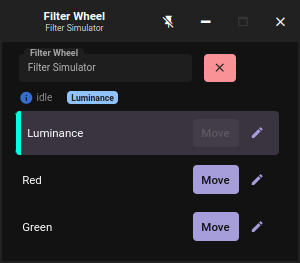
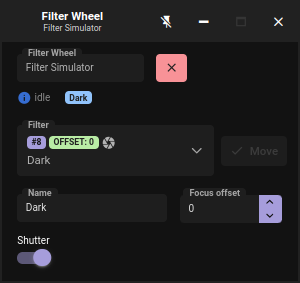
[desktop]: Improve Filter Wheel layout

diff --git a/desktop/src/app/filterwheel/filterwheel.component.html b/desktop/src/app/filterwheel/filterwheel.component.html
@@ -18,42 +18,58 @@
             <p-tag *ngIf="connected && selectedFilter" [value]="selectedFilter.name" severity="info" />
         </div>
     </div>
-    <div class="grid">
-        <p-scrollPanel [style]="{ width: '100%', height: '143px' }" class="w-full">
-            @for (item of filters; track item.position) {
-            <div class="grid m-1 mr-2 border-round filter" [class.surface-card]="item.expanded && item.position !== position"
-                 [class.current]="connected && item.position === position"
-                 style="min-height: 44px;">
-                <div class="col-12 flex flex-column align-items-center justify-content-center p-1">
-                    <div class="align-items-center flex justify-content-between ng-star-inserted p-1 w-full">
-                        <span class="align-items-center flex gap-1">
-                            {{ item.name }}
-                            <i *ngIf="item.dark" class="mdi mdi-camera-iris"></i>
-                        </span>
-                        <span class="flex align-items-center justify-content-center gap-1">
-                            <p-button [disabled]="!connected || moving || item.position === position" label="Move" (onClick)="moveTo(item)" />
-                            <p-button [disabled]="!connected || moving" [text]="true" [rounded]="true" icon="mdi mdi-pencil"
-                                      (onClick)="item.expanded = !item.expanded" />
-                        </span>
-                    </div>
-                    <div class="flex flex-row w-full py-2 px-3 align-items-center justify-content-between" *ngIf="item.expanded">
-                        <div class="flex align-items-center justify-content-center gap-1">
-                            <span class="p-float-label">
-                                <input [disabled]="!connected || moving" type="text" pInputText class="p-inputtext-sm border-0 w-full"
-                                       [(ngModel)]="item.newName" [maxLength]="32" />
-                                <label>New name</label>
+    <div class="grid mt-2">
+        <div class="col-9">
+            <span class="p-float-label">
+                <p-dropdown [disabled]="!connected || moving" [options]="filters" [(ngModel)]="filter" styleClass="border-0"
+                            emptyMessage="No filter found">
+                    <ng-template let-item pTemplate="selectedItem">
+                        <div class="flex flex-column justify-content-center gap-1">
+                            <span class="flex align-items-center text-xs gap-1" style="min-height: 15px">
+                                <p-tag *ngIf="filter" value="#{{ filter.position }}" />
+                                <p-tag *ngIf="filter" value="OFFSET: {{ filter.offset }}" severity="success" />
+                                <i *ngIf="filter?.dark" class="mdi mdi-camera-iris"></i>
                             </span>
-                            <p-button [disabled]="!connected || moving" severity="success" [text]="true" icon="mdi mdi-check" styleClass="p-button-sm"
-                                      (onClick)="applyFilterName(item, $event)" pTooltip="Apply" tooltipPosition="bottom" />
+                            <span>{{ filter?.name }}</span>
                         </div>
-                        <div class="flex flex-column align-items-center justify-content-center gap-1">
-                            <p-checkbox [disabled]="!connected || moving" [binary]="true" [ngModel]="item.dark" (onChange)="shutterToggled(item, $event)"
-                                        pTooltip="Shutter" tooltipPosition="bottom" />
+                    </ng-template>
+                    <ng-template let-item pTemplate="item">
+                        <div class="flex flex-column justify-content-center gap-1">
+                            <span class="flex align-items-center text-xs gap-1" style="min-height: 15px">
+                                <p-tag value="#{{ item.position }}" />
+                                <p-tag value="OFFSET: {{ item.offset }}" severity="success" />
+                                <i *ngIf="item.dark" class="mdi mdi-camera-iris"></i>
+                            </span>
+                            <span>{{ item.name }}</span>
                         </div>
-                    </div>
-                </div>
-            </div>
-            }
-        </p-scrollPanel>
+                    </ng-template>
+                </p-dropdown>
+                <label>Filter</label>
+            </span>
+        </div>
+        <div class="col-3 flex align-items-center justify-content-center">
+            <p-button [disabled]="!connected || moving || filter?.position === position" label="Move" icon="mdi mdi-check"
+                      (onClick)="filter && moveTo(filter)" />
+        </div>
+    </div>
+    <div class="grid mt-2" *ngIf="filter">
+        <div class="col-7">
+            <span class="p-float-label">
+                <input pInputText [disabled]="!connected || moving" [(ngModel)]="filter.name" (ngModelChange)="filterNameChanged(filter)"
+                       class="border-0 w-full p-inputtext-sm">
+                <label>Name</label>
+            </span>
+        </div>
+        <div class="col-5">
+            <span class="p-float-label">
+                <p-inputNumber [disabled]="!connected || moving" [(ngModel)]="filter.offset" [min]="-1000000" [max]="1000000" [showButtons]="true"
+                               locale="en" styleClass="border-0 w-full p-inputtext-sm" />
+                <label>Focus offset</label>
+            </span>
+        </div>
+        <div class="col-12 flex flex-column justify-content-center gap-2">
+            <span class="text-sm">Shutter</span>
+            <p-inputSwitch [disabled]="!connected || moving" [ngModel]="filter.dark" (onChange)="shutterToggled(filter, $event)" />
+        </div>
     </div>
 </div>

diff --git a/desktop/src/app/filterwheel/filterwheel.component.ts b/desktop/src/app/filterwheel/filterwheel.component.ts
@@ -1,6 +1,7 @@
 import { AfterContentInit, Component, HostListener, NgZone, OnDestroy } from '@angular/core'
 import { ActivatedRoute } from '@angular/router'
-import { CheckboxChangeEvent } from 'primeng/checkbox'
+import { InputSwitchChangeEvent } from 'primeng/inputswitch'
+import { Subject, Subscription, throttleTime } from 'rxjs'
 import { ApiService } from '../../shared/services/api.service'
 import { ElectronService } from '../../shared/services/electron.service'
 import { LocalStorageService } from '../../shared/services/local-storage.service'
@@ -11,14 +12,14 @@ import { AppComponent } from '../app.component'
 export interface WheelPreference {
     shutterPosition?: number
     names?: string[]
+    offsets?: number[]
 }
 
-export interface FilterSlot {
+export interface Filter {
     position: number
     name: string
-    expanded: boolean
-    newName: string
     dark: boolean
+    offset: number
 }
 
 @Component({
@@ -33,11 +34,15 @@ export class FilterWheelComponent implements AfterContentInit, OnDestroy {
 
     moving = false
     position = 0
-    filters: FilterSlot[] = []
+    filters: Filter[] = []
+    filter?: Filter
 
-    get selectedFilter() {
+    get selectedFilter(): Filter | undefined {
         return this.filters[this.position - 1]
     }
+
+    private readonly filterChangedPublisher = new Subject<Filter>()
+    private subscription?: Subscription
 
     constructor(
         private app: AppComponent,
@@ -58,6 +63,13 @@ export class FilterWheelComponent implements AfterContentInit, OnDestroy {
                 })
             }
         })
+
+        this.subscription = this.filterChangedPublisher
+            .pipe(throttleTime(1500))
+            .subscribe((filter) => {
+                this.savePreference()
+                this.electron.send('WHEEL_RENAMED', { wheel: this.wheel!, filter })
+            })
     }
 
     async ngAfterContentInit() {
@@ -68,7 +80,9 @@ export class FilterWheelComponent implements AfterContentInit, OnDestroy {
     }
 
     @HostListener('window:unload')
-    ngOnDestroy() { }
+    ngOnDestroy() {
+        this.subscription?.unsubscribe()
+    }
 
     async wheelChanged(wheel?: FilterWheel) {
         this.wheel = wheel
@@ -94,23 +108,23 @@ export class FilterWheelComponent implements AfterContentInit, OnDestroy {
         }
     }
 
-    shutterToggled(filter: FilterSlot, event: CheckboxChangeEvent) {
-        this.filters.forEach(e => e.dark = e === filter)
-        this.savePreference()
-        event.originalEvent?.stopImmediatePropagation()
-    }
-
-    moveTo(filter: FilterSlot) {
+    moveTo(filter: Filter) {
         this.api.wheelMoveTo(this.wheel!, filter.position)
     }
 
-    applyFilterName(filter: FilterSlot, event: Event) {
-        filter.name = filter.newName
+    shutterToggled(filter: Filter, event: InputSwitchChangeEvent) {
+        this.filters.forEach(e => e.dark = event.checked && e === filter)
+        this.filterChangedPublisher.next(filter)
+    }
 
-        this.savePreference()
-        this.electron.send('WHEEL_RENAMED', this.wheel)
+    filterNameChanged(filter: Filter) {
+        if (filter.name) {
+            this.filterChangedPublisher.next(filter)
+        }
+    }
 
-        event.stopImmediatePropagation()
+    focusOffsetChanged(filter: Filter) {
+        this.filterChangedPublisher.next(filter)
     }
 
     private async update() {
@@ -122,7 +136,7 @@ export class FilterWheelComponent implements AfterContentInit, OnDestroy {
         this.moving = this.wheel.moving
         this.position = this.wheel.position
 
-        let filters: FilterSlot[] = []
+        let filters: Filter[] = []
 
         if (this.wheel.count <= 0) {
             this.filters = []
@@ -136,14 +150,15 @@ export class FilterWheelComponent implements AfterContentInit, OnDestroy {
         const preference = this.storage.get<WheelPreference>(`wheel.${this.wheel.name}`, {})
 
         for (let position = 1; position <= filters.length; position++) {
-            const name = preference.names?.[position] ?? `Filter #${position}`
+            const name = preference.names?.[position - 1] ?? `Filter #${position}`
+            const offset = preference.offsets?.[position - 1] ?? 0
             const dark = position === preference.shutterPosition
-            const expanded = this.filters[position - 1]?.expanded ?? false
-            const filter = { position, name, expanded, newName: name, dark }
+            const filter = { position, name, dark, offset }
             filters[position - 1] = filter
         }
 
         this.filters = filters
+        this.filter = filters[this.position - 1] ?? filters[0]
     }
 
     private loadPreference() {

diff --git a/desktop/src/app/camera/camera.component.html b/desktop/src/app/camera/camera.component.html
@@ -31,7 +31,7 @@
             <span *ngIf="camera && (savePath || capturesPath)" style="padding-top: 1px; padding-bottom: 1px; height: 15px;"
                   class="flex align-items-center gap-2 bg-gray-800 border-round-2xl px-3 text-overflow-scroll">
                 {{ savePath || capturesPath }}
-                <i *ngIf="savePath" class="mdi mdi-close cursor-pointer" pTooltip="Reset" tooltipPosition="bottom" (click)="resetSavePath()"></i>
+                <i *ngIf="savePath" class="mdi mdi-close cursor-pointer" pTooltip="Reset" tooltipPosition="bottom" (click)="clearSavePath()"></i>
             </span>
         </div>
         <div class="col-12 pt-0 text-sm text-gray-400 flex align-items-center my-1 gap-1 text-center text-sm" style="min-height: 25px;">

diff --git a/desktop/src/shared/services/browser-window.service.ts b/desktop/src/shared/services/browser-window.service.ts
@@ -38,7 +38,7 @@ export class BrowserWindowService {
     openWheel(options: OpenWindowOptions<FilterWheel>) {
         options.icon ||= 'filter-wheel'
         options.width ||= 300
-        options.height ||= 263
+        options.height ||= 283
         this.openWindow({ ...options, id: `wheel.${options.data.name}`, path: 'wheel' })
     }
 

diff --git a/desktop/src/styles.scss b/desktop/src/styles.scss
@@ -156,6 +156,7 @@ i.mdi {
 }
 
 p-contextmenu *,
+p-dropdown *,
 .no-draggable-region {
     -webkit-app-region: no-drag;
 }
